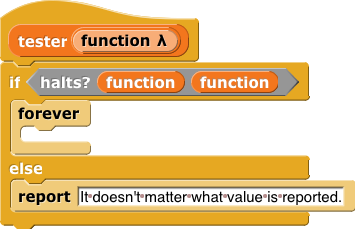
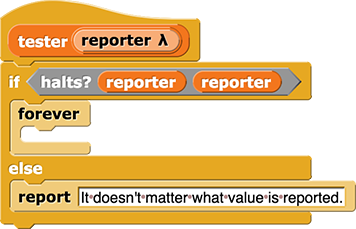
5.4 TG edits with BH

diff --git a/cur/teaching-guide/U5/lab-pages/4-unsolvable-undecidable-problems.html b/cur/teaching-guide/U5/lab-pages/4-unsolvable-undecidable-problems.html
@@ -84,24 +84,37 @@
                                     </div>
                                 </li>
                                 <li>
-                                To make a proof by contradiction, we start by supposing that there is a <code>halts?</code> function that that takes a function and an input to that function and reports <code>true</code> if the function will terminate when given that input and reports <code>false</code> if it won't.<br />
-                                <img class="indent" src="/bjc-r/img/5-algorithms/halts-reporting.png" alt="halts?(round())(7.5) reporting true" title="halts?(round())(7.5) reporting true" /><br />
-                                Then, we show that there has to be at least one function and one input to that function for which <code>halts?</code> fails, namely, if we call <code>halts?</code> with the function <code>tester</code> as both the function to be tested and the input to give that function, any result reported by <code>halts?</code> will be wrong.<br />
-                                <img class="indent" src="/bjc-r/img/5-algorithms/tester-halting.png" alt="tester(function){if(halts?(function)(function){forever{}}else{report(true)}}" title="tester(function){if(halts?(function)(function){forever{}}else{report(true)}}">
-                                <img class="indent" src="/bjc-r/img/5-algorithms/halts-tester-tester.png" alt="halts (tester ()) (tester ())" title="halts (tester ()) (tester ())" />
+                                    To make a proof by contradiction, we start by supposing that there <em>is</em> a <code>halts?</code> function that takes two inputs: a function and an input to that function; it reports <code>true</code> if the function will terminate when given that input and reports <code>false</code> if it won't.<br />
                                     <ul>
-                                        <li>It's crucial to the proof that the function given as input to <code>halts?</code> takes an input, and that <code>tester</code> is written so that it tests that function <em>with itself as input.</em> It's tempting to leave out the input, but this is how we get the self-reference that leads to a contradiction proving that there can be no such <code>halts?</code> function.</li>
-		
-                                        <li>
-                                            Showing that <strong>the result has to be wrong</strong> involves a <em>case analysis</em> like the ones used to solve the logic puzzles on page 1:
-                                            <ul>
-                                                <li>Suppose <code>halts?</code> reports <code>true</code>, telling us that <code>tester(tester)</code> succeeds at reporting a value. Because <code>halts?</code> reports <code>true</code>, <code>tester</code> takes the first branch of the <code>if</code>, and so it loops forever. Thus <code>tester</code> doesn't halt, and so <code>halts?</code> gave the wrong answer.</li>
-                
-                                                <li>Now suppose instead that <code>halts?</code> reports <code>false</code>, thereby claiming that <code>tester(tester)</code> never halts. But in that case, <code>tester</code> takes the <code>else</code> branch and reports <code>true</code>, and so <code>halts?</code> is wrong again.</li>
-                                                <li>Note that it doesn't matter <em>what</em> value <code>tester</code> reports, just that it reports <em>some</em> value, but it <em>does</em> matter what value <code>halts?</code> reports.</li>
-                                            </ul>
-                                        </li>
+                                        <li><img class="inline" src="/bjc-r/img/5-algorithms/halts-reporting.png" alt="halts?(round())(7.5) reporting true" title="halts?(round())(7.5) reporting true" /> because <img class="inline" src="/bjc-r/img/5-algorithms/round(7-5).png" alt="" title="" /> returns a value.</li>
+                                        <li><img class="inline" src="/bjc-r/img/5-algorithms/halts-reporting-false.png" alt="halts?(program with an infinite loop ())(foo) reporting false" title="halts?(program with an infinite loop ())(foo) reporting false" /> because <img class="inline" src="/bjc-r/img/5-algorithms/program-with-loop(foo).png" alt="program with an infinite loop (foo)" title="program with an infinite loop (foo)" /> loops.</li>
                                     </ul>
+                                    Then to show the contradiction, we show that there has to be at least one function and one input to that function for which <code>halts?</code> fails. We construct the block <code>tester</code> for this purpose. <br />
+                                    <img class="indent" src="/bjc-r/img/5-algorithms/tester-halting.png" alt="tester(function){if(halts?(function)(function){forever{}}else{report(true)}}" title="tester(function){if(halts?(function)(function){forever{}}else{report(true)}}">
+                                    <p>Students consider the expression <img class="inline" src="/bjc-r/img/5-algorithms/testertester.png" alt="tester(tester())" title="tester(tester())" /> which sets up a contradictory self-reference that proves that the <code>halts?</code> function inside <code>tester</code> can't exist. In this case in the body of <code>tester</code>, the variable <var>reporter</var> has <code>tester</code> itself as its value. Therefore, the expression <img class="inline" src="/bjc-r/img/5-algorithms/halts-reporter-reporter.png" alt="halts (reporter) (reporter)" title="halts (reporter) (reporter)" /> becomes <img class="inline" src="/bjc-r/img/5-algorithms/halts-tester-tester.png" alt="halts (tester ()) (tester ())" title="halts (tester ()) (tester ())" />.<!--</p>
+                                    <p>
+                                        Showing that <strong>the result has to be wrong</strong> involves a <em>case analysis</em> like the ones used to solve the logic puzzles on page 1 (and in the examples above):
+                                        <ul>
+                                            <li><img class="inline" src="/bjc-r/img/5-algorithms/halts-tester-tester-reporting-true.png" alt="halts (tester) (tester) reporting true" title="halts (tester) (tester) reporting true" /> would mean that <code>tester(tester)</code> returns a value. In this case because <code>halts?</code> reports <code>true</code>, <code>tester</code> takes the first branch of the <code>if</code>, and so it will loop forever. Thus <code>tester</code> won't halt, and so <code>halts?</code> gave the wrong answer.</li>
+                                            <li><img class="inline" src="/bjc-r/img/5-algorithms/halts-tester-tester-reporting-false.png" alt="halts (tester) (tester) reporting false" title="halts (tester) (tester) reporting false" /> would mean that <code>tester(tester)</code> loops indefinitely. Because <code>halts?</code> reports <code>false</code>, thereby claiming that <code>tester(tester)</code> never halts. But in that case, <code>tester</code> takes the <code>else</code> branch and reports <code>true</code>, and so <code>halts?</code> is wrong again.</li>
+                                        </ul>
+                                    </p>
+                                    <p>It's crucial to the proof that the function given as input to <code>halts?</code> takes an input, and that <code>tester</code> is written so that it tests that function <em>with itself as input.</em> It's tempting to leave out the second input in <code>halts?</code>, but this is how we get the self-reference that leads to a contradiction proving that there can be no such <code>halts?</code> function.</p>-->
+                                    Just as in the examples above:
+                                    <ul>
+                                        <li><img class="inline" src="/bjc-r/img/5-algorithms/halts-tester-tester-reporting-true.png" alt="halts (tester) (tester) reporting true" title="halts (tester) (tester) reporting true" /> would mean that <code>tester(tester)</code> returns a value.</li>
+                                        <li><img class="inline" src="/bjc-r/img/5-algorithms/halts-tester-tester-reporting-false.png" alt="halts (tester) (tester) reporting false" title="halts (tester) (tester) reporting false" /> would mean that <code>tester(tester)</code> loops indefinitely.</li>
+                                    </ul>
+                                    <p>It's crucial to the proof that the function given as input to <code>halts?</code> takes an input, and that <code>tester</code> is written so that it tests that function <em>with itself as input.</em> It's tempting to leave out the second input in <code>halts?</code>, but this is how we get the self-reference that leads to a contradiction proving that there can be no such <code>halts?</code> function.</p>
+                                    <p>
+                                        Showing that <strong>the result has to be wrong</strong> involves a <em>case analysis</em> like the ones used to solve the logic puzzles on page 1:
+                                        <ul>
+                                            <li>Suppose <code>halts?</code> reports <code>true</code>, telling us that <code>tester(tester)</code> succeeds at reporting a value. Because <code>halts?</code> reports <code>true</code>, <code>tester</code> will take the first branch of the <code>if</code>, and so it will loop forever. Thus <code>tester</code> won't halt, and so <code>halts?</code> gave the wrong answer.</li>
+            
+                                            <li>Now suppose instead that <code>halts?</code> reports <code>false</code>, thereby claiming that <code>tester(tester)</code> never halts. But in that case, <code>tester</code> takes the <code>else</code> branch and reports <code>true</code>, and so <code>halts?</code> is wrong again.</li>
+                                        </ul>
+                                    </p>
+                                    <p>Note that it doesn't matter <em>what</em> value <code>tester</code> reports, just that it reports <em>some</em> value, but it <em>does</em> matter what value <code>halts?</code> reports.</p>
                                 </li>
                                 <li>The second page involves mostly reading and discussion; by the nature of a proof by contradiction, there are no concrete examples students can try individually.</li> 
 								<div class="endnote">
